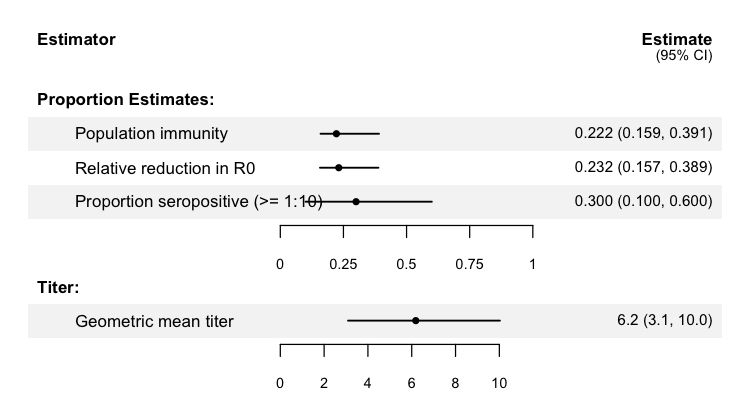
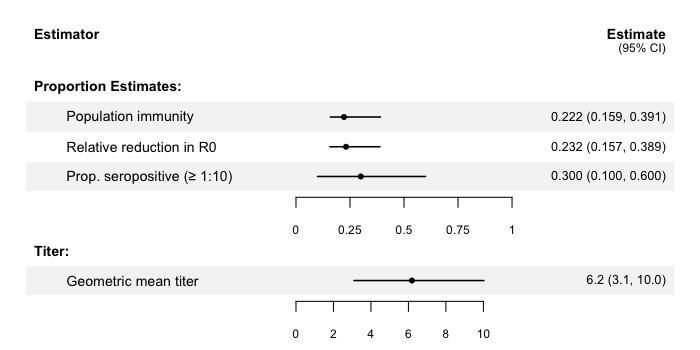
Rename bsl to baseline, fix forest plot label overlap
- Rename 'bsl' column to 'baseline' in data, code, docs, and tests
- Rename df_long_bsl parameter to df_baseline in ImmuPop_est_baseline()
- Shorten "Proportion seropositive" label to "Prop. seropositive" and
  widen label area in forest plot to prevent text-line overlap
- Regenerate figures with updated labels
- Add ImmuPop.Rcheck/ and *.tar.gz to .gitignore
- 99 tests pass, R CMD check 0E/0W/0N

diff --git a/README.md b/README.md
@@ -93,11 +93,11 @@ plot_estimates(result)
 ### Baseline comparison across epidemics
 
 ```r
-df_bsl  <- df[df$bsl == "yes", ]
-res_bsl <- ImmuPop_est_baseline(df_bsl, protect_c, protect_a,
+df_bl  <- df[df$baseline == "yes", ]
+res_bl <- ImmuPop_est_baseline(df_bl, protect_c, protect_a,
                            age_prop, contact_matrix,
                            sim_num = 500, seed = 42)
-plot_estimates(res_bsl)
+plot_estimates(res_bl)
 ```
 
 <img src="man/figures/baseline.png" width="650"/>
@@ -120,7 +120,7 @@ plot_estimates(res_ts)
 | Function | Input | Groups by |
 |----------|-------|-----------|
 | `ImmuPop_est_timepoint()` | Single time point subset | — (ungrouped) |
-| `ImmuPop_est_baseline()` | Baseline samples (`bsl == "yes"`) | Epidemic (`epi`) |
+| `ImmuPop_est_baseline()` | Baseline samples (`baseline == "yes"`) | Epidemic (`epi`) |
 | `ImmuPop_est_timeseries()` | Full longitudinal data | Time point (`time`) |
 
 All three return a data frame with columns `estimator`, `value`, `CI_lwr`, `CI_upr` (plus `epi` or `time` for grouped modes), and all work with `plot_estimates()`.
@@ -132,7 +132,7 @@ The input data frame must contain these columns:
 | Column | Description |
 |--------|-------------|
 | `uid` | Individual identifier |
-| `bsl` | Baseline indicator (`"yes"` / `"no"`) |
+| `baseline` | Baseline indicator (`"yes"` / `"no"`) |
 | `epi` | Epidemic identifier (integer) |
 | `age` | Age in years |
 | `time` | Time point identifier |
